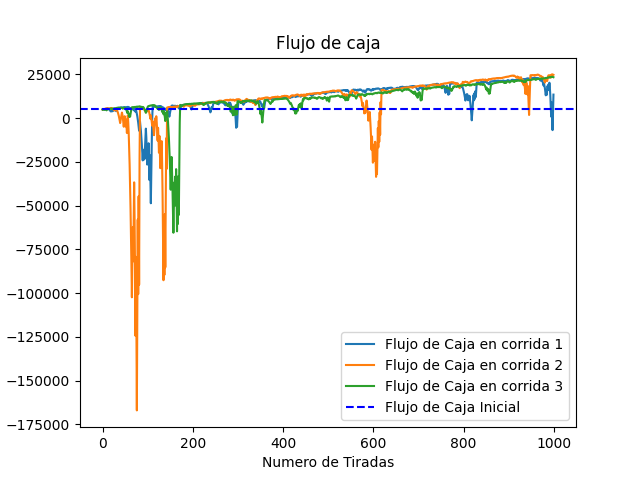
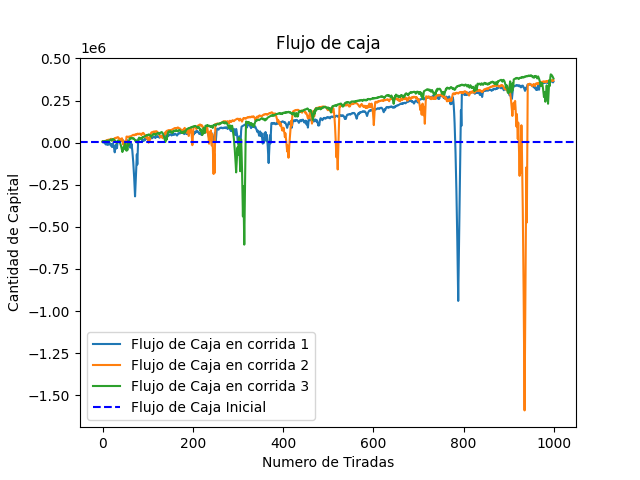
Correcion lista labouchere

diff --git a/ruleta_1.2.py b/ruleta_1.2.py
@@ -181,7 +181,7 @@ def dalembert_infi():
             apuesta+=apuesta_gral
 def labouchere_infi():
     monto = monto_inicial
-    secuencia_inicial = [50,50,50]  # Secuencia inicial de Labouchere, puedes cambiarla
+    secuencia_inicial = [1000,500,1500,700,800,500]  # Secuencia inicial de Labouchere, puedes cambiarla
     secuencia = secuencia_inicial.copy()
     frecuencia = []
     montoTotal = []
